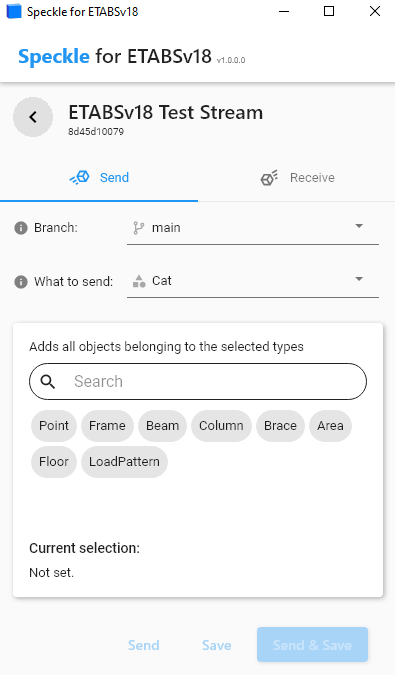
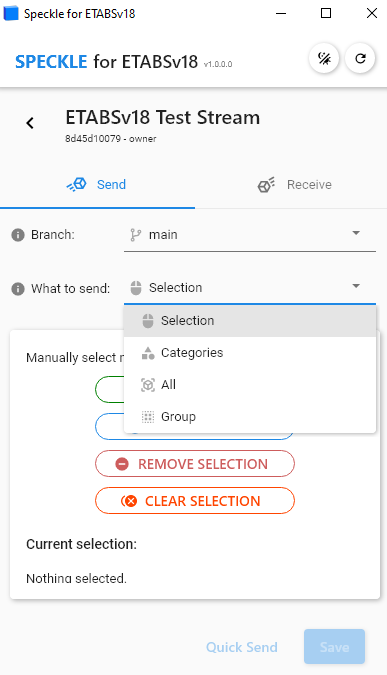
update docs with tekla structures + etabs

diff --git a/user/support-tables.md b/user/support-tables.md
@@ -309,25 +309,25 @@ We've only started supporting Unity elements, please let us know what else you'd
 
 We've only started supporting with an alpha release of ETABS elements, please let us know what else you'd like to see, and do contribute if you have the skillz!
 
-| Geometry                                               |  Send   | Receive |
-| ------------------------------------------------------ | :-----: | :-----: |
-| Point                                                  |   ✅   |   ✅   |
-| Columns                                                |   ✅   |   ✅   | 
-| Beams                                                  |   ✅   |   ✅   |  
-| Braces                                                 |   ✅   |   ✅   |  
-| Sections Profile (Catalogue)                           |   ✅   |   ✅   |
-| User Defined Sections ~ refer to [structural object kit](https://github.com/specklesystems/speckle-sharp/blob/structural/structural-kit/Objects/Objects/Structural/Property/SectionProfile.cs) for schema              |   ✅    |   ✅    |
-| Floor with Slab Sections + Deck Sections               |   ✅   |   ✅   |
-| Wall and Sections                                      |   ✅   |   ✅   |
-| Material Code definition                               |        |   ✅   |
-| Loading (1D, 2D) (send: node only)                     |   ✅   |   ✅   |
-| Results (1D, 2D, Node)                                 |   ✅   |        |
-| Restraints                                             |   ✅   |   ✅   |
-| Links                                                  |   ✅   |   ✅   |
-| Stories                                                |   ✅   |   ✅   |
-| Springs (Point, Linear, Area)                          |   ✅   |   ✅   |
-| Tendons                                                |   ✅   |        |
-| GridLines                                              |   ✅   |        |
+| Geometry                                                           |  Send   | Receive |
+| ------------------------------------------------------------------ | :-----: | :-----: |
+| Point                                                              |   ✅    |   ✅    |
+| Columns                                                            |   ✅    |   ✅    |
+| Beams                                                              |   ✅    |   ✅    |  
+| Braces                                                             |   ✅    |   ✅    |  
+| Sections Profile (Catalogue)                                       |   ✅    |   ✅    |
+| User Defined Sections ~ refer to [structural object kit](https://github.com/specklesystems/speckle-sharp/blob/structural/structural-kit/Objects/Objects/Structural/Property/SectionProfile.cs) for schema                                                           |   ✅    |   ✅    |
+| Floor with Slab Sections + Deck Sections                           |   ✅    |   ✅    |
+| Wall and Sections                                                  |   ✅    |   ✅    |
+| Material Code definition                                           |          |   ✅    |
+| Loading (1D,2D)   note: node elements can only send                |       ✅   |   ✅    |
+| Results (1D,2D,Node)                                                       |   ✅    |    |
+| Restraints                                                         |   ✅    |   ✅    |
+| Links                                                              |   ✅    |   ✅    |
+| Stories                                                              |   ✅    |   ✅    |
+| Springs (Point,Linear,Area)                                        |   ✅    |   ✅    |
+| Tendons                                                             |   ✅    |       |
+| GridLines                                                             |   ✅    |       |
 
 ## SketchUp
 
@@ -411,3 +411,20 @@ In addition to supporting all of the geometry elements that the MicroStation con
 
 ### Unsupported Elements
 
+## Tekla Structures
+
+### Supported Elements
+
+The Tekla Structures connector is still in early Alpha and therefore will still be developed and worked on. Let us know what else you'd like to see supported or if you would like to contribute to make it finish the alpha phase faster!
+
+| Type                                     | Send | Receive |    Status     |
+| ---------------------------------------- | :--: | :-----: | :-----------: |
+| Contour plates (slabs/plates)                                  |  ✅    | ✅ | `Complete`    |
+| Beams                           |  ✅  |   ✅   | `Complete` |
+| Columns                          |  ✅  |   ✅   | `Complete`    |
+| Spiral Beams                          |  ✅  |   ✅   | `Complete` |
+| Curved Beams                                |  ✅  |      | `In Progress`|
+| Polybeams                             |  ✅  |   ✅   | `Complete` |
+| Welds                                 |   ✅    |   |`In Progress`|  
+| Rebars                                |  ✅     |    |`In Progress`|
+| Bolts                                 |  ✅      |  |`In Progress`|

diff --git a/user/teklastructures.md b/user/teklastructures.md
@@ -1,0 +1,81 @@
+---
+typora-copy-images-to: img-teklastructures
+---
+
+# Tekla Structures (Alpha) 🛠
+
+The Speckle Tekla Structures Connector currently supports Tekla Structures 2020 and 2021. It is currently under alpha development so please report any bugs or feedback to the [community forum](https://speckle.community/).
+
+::: tip
+
+Check out our dedicated tutorial on [how to get started with Tekla Structures](https://speckle.systems/tutorials/getting-started-with-speckle-for-teklastructures/)!
+
+:::
+
+## Getting Started
+
+To install the Tekla Structures Connector and add your Speckle account, proceed by following the instructions in [Speckle Manager](/user/manager).
+
+Once installed, you can find the Tekla Structures connector in the Application and Components tabs :
+
+![ToolBar](./img-teklastructures/toolbar.png)
+
+### Recieving in Tekla Structures
+
+Save the Tekla Structures model as a file first before attempting to recieve streams into your Tekla Structures model.
+
+## User Interface
+
+::: tip IMPORTANT 🙌
+
+This connector uses our shared Desktop UI2. Read up on general guidelines for usage in the [Desktop UI2 section](https://speckle.community/t/new-desktopui-in-alpha-testing/1851/2).
+
+**Streams are saved to a textfile that will appear in your model folder titled "Speckle". Do not delete this folder.**
+
+:::
+
+### Filters
+
+To help you select which elements will be to sent to Speckle, we've built various filters into our Tekla Structures connector. Once a filter is set, just click **Send** and all objects passing the filter will be sent to your Stream. Section properties and materials defined within the model will always be sent.
+
+_Please Note: Elements are sent regardless of whether they are visible or if they were created after setting up the filter._
+
+![Tekla Structures](./img-teklastructures/teklastructures-ui.png)
+
+#### Selection Filters
+
+The selection filters will send everything that is selected within the Tekla Structures display.
+
+#### Phase Filters
+
+The phase filters is going to grab the predefined phases within Tekla Structures that are attached to the objects and send all objects associated with that phase.
+
+#### Category Filter
+
+The category filter lets you select one or more of the currently-supported Tekla Structures categories, this is the most granular filter that will also enable you to send results. Note : Other filters will not enable you to send results or non geometrical elements and properties.
+
+#### All Filter
+
+This trivial filter allows you to select all the elements that are currently supported by the Tekla Structures connector. This will send all geometrical elements and their associated properties.
+
+## Supported Elements
+
+- [Tekla Structures Support Tables](/user/support-tables.html#teklastructures)
+
+## Updating Elements
+
+The connector does not take care of updating existing elements within the stream.
+
+## Revit & BIM Data to Tekla Structures
+
+When sending from elements from Revit, Speckle takes care of converting the data to a Speckle friendly format. If you're curious about how this data is being structured, please have a look at our [Objects Kit class definitions](https://github.com/specklesystems/speckle-sharp/tree/master/Objects/Objects/BuiltElements).
+
+You can send models into Revit and recieve them currently with geometric properties. We are still working a bit more on this workflow, and it will become a bit more refined as time goes on. Stay tuned for more !
+
+## Grasshopper to Tekla Structures
+
+Tekla Structures has it's own grasshopper plugins, but you can always send it through the speckle systems with our schema builders as well. Go to the Tekla Structures specific tab and send beam elements which encompass all geometric elements that are 1D and contour plates which encompasses all geometric elements that are 2D. Defining sections will be defined on a name basis, and therefore as long as the catalog sections is defined in the Tekla catalog by name, it will be imported and built correctly. Refer to an example similar to this in the [ETABS documentation.](/user/etabs.html)
+
+## Exploring the Tekla Structures data
+
+To easily explore on object's data and parameters, our [Speckle Web App](/user/web.html) interface can be of great help. As well as any other applications that lets you explore the object metadata (eg Grasshopper, Dynamo, Unity, etc).

diff --git a/user/etabs.md b/user/etabs.md
@@ -34,7 +34,7 @@ This connector uses our shared Desktop UI2. Read up on general guidelines for us
 
 :::
 
-### Selection Filters
+### Filters
 
 To help you select which elements will be to sent to Speckle, we've built various filters into our ETABS connector. Once a filter is set, just click **Send** and all objects passing the filter will be sent to your Stream. Section properties and materials defined within the model will always be sent.
 
@@ -42,13 +42,21 @@ _Please Note: Elements are sent regardless of whether they are visible or if the
 
 ![ETABS](./img-etabs/etabs-ui.png)
 
+#### Selection Filters
+
+The selection filters will send everything that is selected within the ETABS display.
+
+#### Group Filters
+
+You can create predefined groups of geometrical elements within ETABS to send already within the ETABS group and select based on those groupings of elements for a more precise stream of elemenets.
+
 #### Category Filter
 
-The category filter lets you select one or more of the currently-supported ETABS categories.
+The category filter lets you select one or more of the currently-supported ETABS categories, this is the most granular filter that will also enable you to send results. Note : Other filters will not enable you to send results or non geometrical elements and properties.
 
 #### All Filter
 
-This trivial filter allows you to select all the elements that are currently supported by the ETABS connector.
+This trivial filter allows you to select all the elements that are currently supported by the ETABS connector. This will send all geometrical elements and their associated properties.
 
 ## Supported Elements
 
